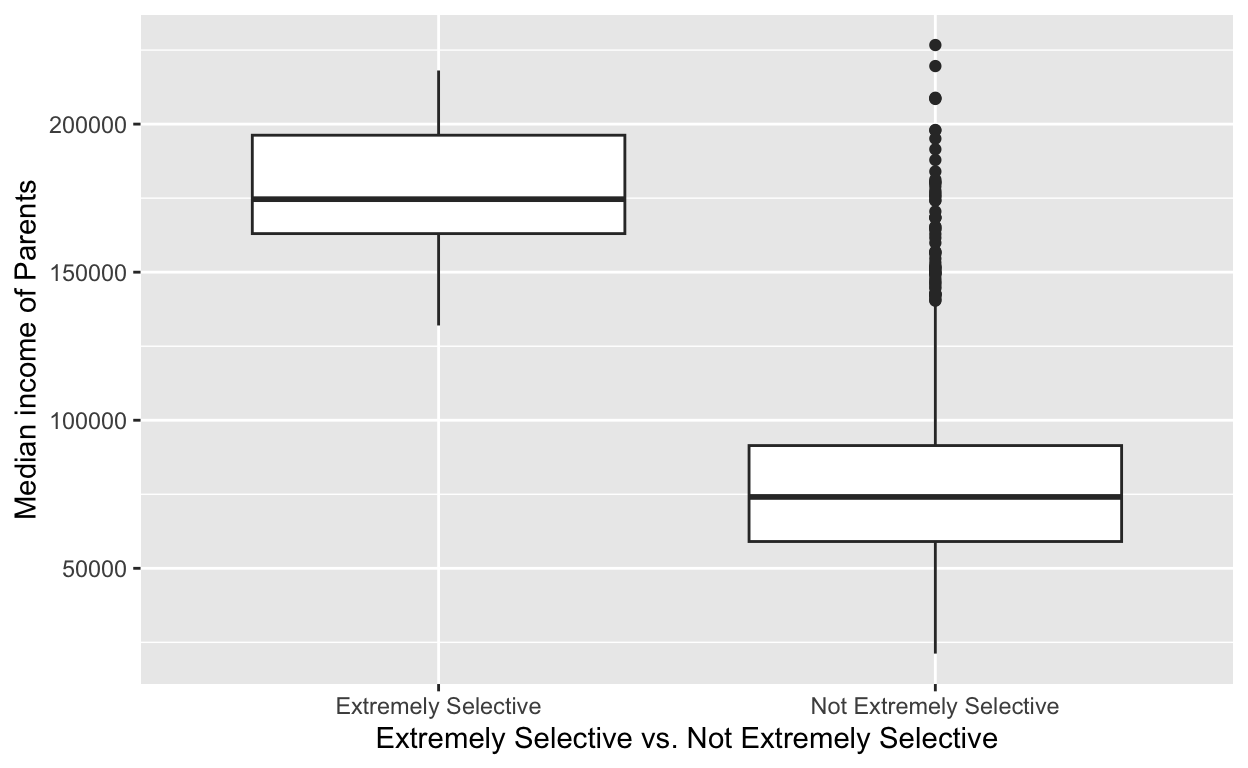
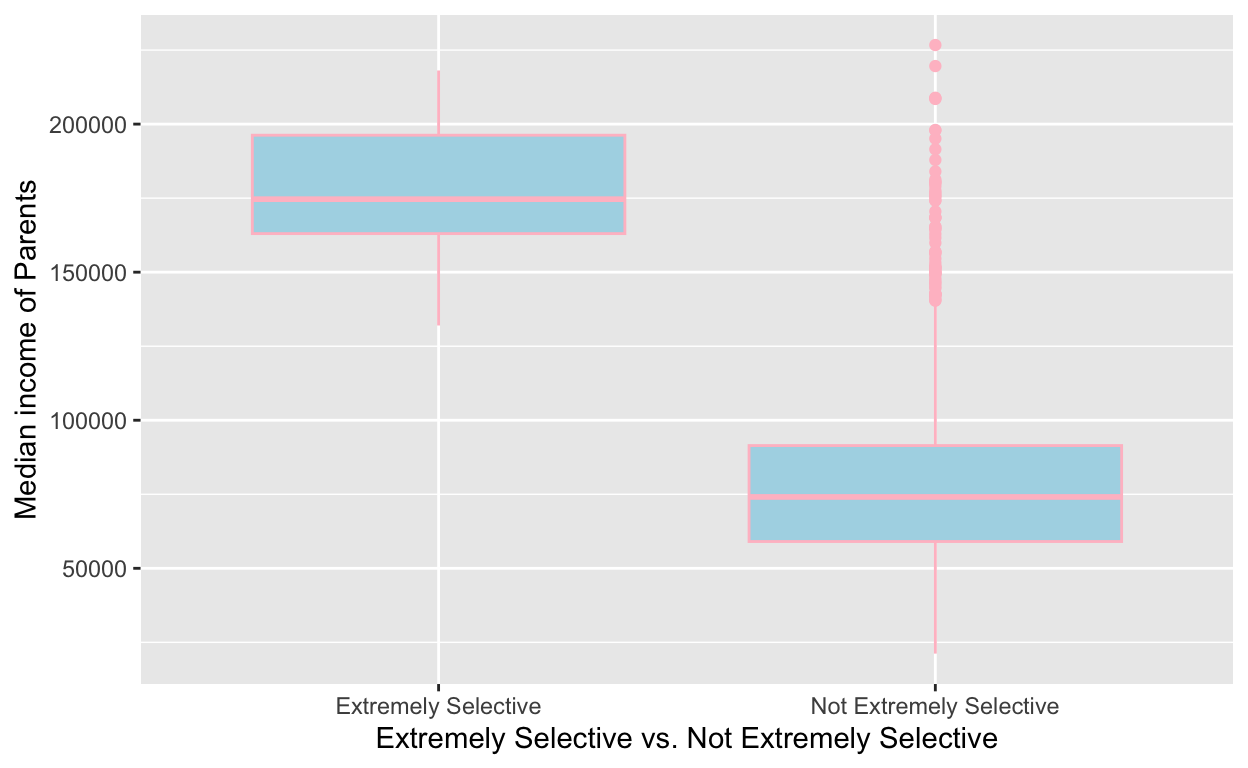
Let's seeee

Changed region(s): [[0.5938, 0.5625, 0.9062, 0.7188], [0.1875, 0.1562, 0.5, 0.3125], [0.7188, 0.1562, 0.7812, 0.4062]]

diff --git a/index.html b/index.html
@@ -115,7 +115,7 @@ code span.wa { color: #5e5e5e; font-style: italic; } /* Warning */
   <!--/radix_placeholder_rmarkdown_metadata-->
   
   <script type="text/json" id="radix-resource-manifest">
-  {"type":"character","attributes":{},"value":["index_files/anchor-4.2.2/anchor.min.js","index_files/bowser-1.9.3/bowser.min.js","index_files/distill-2.2.21/template.v2.js","index_files/figure-html5/unnamed-chunk-4-1.png","index_files/figure-html5/unnamed-chunk-5-1.png","index_files/header-attrs-2.17/header-attrs.js","index_files/header-attrs-2.24/header-attrs.js","index_files/jquery-3.6.0/jquery-3.6.0.js","index_files/jquery-3.6.0/jquery-3.6.0.min.js","index_files/jquery-3.6.0/jquery-3.6.0.min.map","index_files/popper-2.6.0/popper.min.js","index_files/tippy-6.2.7/tippy-bundle.umd.min.js","index_files/tippy-6.2.7/tippy-light-border.css","index_files/tippy-6.2.7/tippy.css","index_files/tippy-6.2.7/tippy.umd.min.js","index_files/webcomponents-2.0.0/webcomponents.js"]}
+  {"type":"character","attributes":{},"value":["index_files/anchor-4.2.2/anchor.min.js","index_files/bowser-1.9.3/bowser.min.js","index_files/distill-2.2.21/template.v2.js","index_files/figure-html5/unnamed-chunk-4-1.png","index_files/figure-html5/unnamed-chunk-5-1.png","index_files/header-attrs-2.17/header-attrs.js","index_files/header-attrs-2.24/header-attrs.js","index_files/header-attrs-2.25/header-attrs.js","index_files/jquery-3.6.0/jquery-3.6.0.js","index_files/jquery-3.6.0/jquery-3.6.0.min.js","index_files/jquery-3.6.0/jquery-3.6.0.min.map","index_files/popper-2.6.0/popper.min.js","index_files/tippy-6.2.7/tippy-bundle.umd.min.js","index_files/tippy-6.2.7/tippy-light-border.css","index_files/tippy-6.2.7/tippy.css","index_files/tippy-6.2.7/tippy.umd.min.js","index_files/webcomponents-2.0.0/webcomponents.js"]}
   </script>
   <!--radix_placeholder_navigation_in_header-->
   <!--/radix_placeholder_navigation_in_header-->
@@ -227,9 +227,21 @@ code span.wa { color: #5e5e5e; font-style: italic; } /* Warning */
     display: none !important;
   }
 
+  hr.section-separator {
+    border: none;
+    border-top: 1px solid rgba(0, 0, 0, 0.1);
+    margin: 0px;
+  }
+
+
+  d-byline {
+    border-top: none;
+  }
+
   d-article {
     padding-top: 2.5rem;
     padding-bottom: 30px;
+    border-top: none;
   }
 
   d-appendix {
@@ -324,6 +336,11 @@ code span.wa { color: #5e5e5e; font-style: italic; } /* Warning */
   d-article div.sourceCode pre {
     padding-left: 18px;
     font-size: 14px;
+  }
+
+  /* tweak for Pandoc numbered line within distill */
+  d-article pre.numberSource code > span {
+      left: -2em;
   }
 
   d-article pre {
@@ -1085,6 +1102,12 @@ code span.wa { color: #5e5e5e; font-style: italic; } /* Warning */
     // create d-title
     $('.d-title').changeElementType('d-title');
 
+    // separator
+    var separator = '<hr class="section-separator" style="clear: both"/>';
+    // prepend separator above appendix
+    $('.d-byline').before(separator);
+    $('.d-article').before(separator);
+
     // create d-byline
     var byline = $('<d-byline></d-byline>');
     $('.d-byline').replaceWith(byline);
@@ -1162,8 +1185,9 @@ code span.wa { color: #5e5e5e; font-style: italic; } /* Warning */
     $('.distill-force-highlighting-css').parent().remove();
 
     // remove empty line numbers inserted by pandoc when using a
-    // custom syntax highlighting theme
-    $('code.sourceCode a:empty').remove();
+    // custom syntax highlighting theme, except when numbering line
+    // in code chunk
+    $('pre:not(.numberLines) code.sourceCode a:empty').remove();
 
     // load distill framework
     load_distill_framework();
@@ -1189,12 +1213,13 @@ code span.wa { color: #5e5e5e; font-style: italic; } /* Warning */
       // add orcid ids
       $('.authors-affiliations').find('.author').each(function(i, el) {
         var orcid_id = front_matter.authors[i].orcidID;
+        var author_name = front_matter.authors[i].author
         if (orcid_id) {
           var a = $('<a></a>');
           a.attr('href', 'https://orcid.org/' + orcid_id);
           var img = $('<img></img>');
           img.addClass('orcid-id');
-          img.attr('alt', 'ORCID ID');
+          img.attr('alt', author_name ? 'ORCID ID for ' + author_name : 'ORCID ID');
[1 lines of base64/hex data omitted]
           a.append(img);
           $(this).append(a);
@@ -1472,7 +1497,7 @@ code span.wa { color: #5e5e5e; font-style: italic; } /* Warning */
   </script>
 
   <!--/radix_placeholder_distill-->
-  <script src="index_files/header-attrs-2.24/header-attrs.js"></script>
+  <script src="index_files/header-attrs-2.25/header-attrs.js"></script>
   <script src="index_files/jquery-3.6.0/jquery-3.6.0.min.js"></script>
   <script src="index_files/popper-2.6.0/popper.min.js"></script>
   <link href="index_files/tippy-6.2.7/tippy.css" rel="stylesheet" />
@@ -1504,6 +1529,7 @@ code span.wa { color: #5e5e5e; font-style: italic; } /* Warning */
 
 <div class="d-title">
 <h1>Gov 50 Final Project</h1>
+
 <!--radix_placeholder_categories-->
 <!--/radix_placeholder_categories-->
 <p>My final project</p>
@@ -1517,14 +1543,14 @@ code span.wa { color: #5e5e5e; font-style: italic; } /* Warning */
 </div>
 
 <div class="d-article">
-<h2 id="project-thoughts">Project thoughts</h2>
-<p>I am interested in exploring data related to the chances of upward mobility from students in elite higher education universities, including Harvard University. I seek to include data relating to students socioeconomic status prior to arriving a college, and this can also raise more questions regarding the idea of a “higher bracket” in moving up the economic ladder in these prestigious universities. Are these students pressured to do more than their parents who are already well off? Are students identifying as first generational low income at an equal chance of high upward mobility than those who came from a family of generational wealth? I strive to solve all of these raising questions through using R and the data presented in the program.</p>
-<p>Write-Up for Milestone 2</p>
+<h2 id="introduction">Introduction</h2>
+<p>Throughout my high school career, I have always been facinated at the idea of exploring data related to the chances of upward mobility from students in elite higher education universities, including Harvard University. In the case where I can study this type of information now being a Harvard student, I seek to include data relating to students socioeconomic status prior to arriving a college, and this can also raise more questions regarding the idea of a “higher bracket” in moving up the economic ladder in these prestigious universities. Are these students pressured to do more than their parents who are already well off? Are students identifying as first generational low income at an equal chance of high upward mobility than those who came from a family of generational wealth? I strive to solve all of these raising questions through using R and the data presented in the program.</p>
 <p>Do your chances of upward mobility increase as the rank and tier of college rises in prestige? In this study, I intend to dive deep into the realm that determines a students outcome for social mobility. What does determine your economic outcome? I hypothesize that as we look further into the spectrum in which colleges become “more elite,” we will find that their overall social mobility statistics will feature a distinct trend in which it stays stagnant due to many students already coming from wealthy backgrounds in the beginning. While the topic of social mobility between elite and lower tiered universities is widely perceived to be different, I will be taking a different approach in which I will examine whether a students chances within an elite college institution for upward mobility is higher than it would be in lower tiered universities. My sample will be comprised of elite colleges which will include the Ivy league colleges, Stanford University, and the Massachusetts Institute of Technology (MIT) and other colleges deemed “extremely selective” according to the code. On the flip side, it will include brief data on lower tiered state schools from around the country that are deemed to be “Not Selective” according to the code. My explanatory variable of interest is whether there is upward mobility in my chosen elite colleges or if there is little to no upward mobility. The variable is code = 1 for those experiencing upward mobility and =0 with those with little to no upward mobility. My outcome variable is how many students came out of elite universities with upward economic mobility, so in the event the code is =135, that would mean that 135 students came out of the universities with upward mobility. This variable will be measured by a data set from Raj Chetty on “Income Segregation and Intergenerational Mobility Across Colleges in the United States.” If I discover stagnant numbers in students with little to no upward mobility in elite universities, this will support my hypothesis’s claim. If, on the other hand, I observe more upward mobility in those elite groups, it will not support my claim in my hypothesis. When I run a diagnosis on the count of students who are experiencing upward mobility, a positive significant coeficient (number) would indicate support for my hypothesis.</p>
 <p>My chosen data set: <a href="https://doi.org/10.7910/DVN/RYLJKZ" class="uri">https://doi.org/10.7910/DVN/RYLJKZ</a></p>
 <div class="layout-chunk" data-layout="l-body">
 <div class="sourceCode">
 <pre class="sourceCode r"><code class="sourceCode r"><span><span class='kw'><a href='https://rdrr.io/r/base/library.html'>library</a></span><span class='op'>(</span><span class='va'><a href='https://tidyverse.tidyverse.org'>tidyverse</a></span><span class='op'>)</span></span>
+<span><span class='kw'><a href='https://rdrr.io/r/base/library.html'>library</a></span><span class='op'>(</span><span class='va'><a href='http://had.co.nz/plyr'>plyr</a></span><span class='op'>)</span></span>
 <span><span class='kw'><a href='https://rdrr.io/r/base/library.html'>library</a></span><span class='op'>(</span><span class='va'><a href='https://dplyr.tidyverse.org'>dplyr</a></span><span class='op'>)</span></span>
 <span><span class='va'>statistics</span> <span class='op'>&lt;-</span> <span class='fu'><a href='https://rdrr.io/r/utils/read.table.html'>read.csv</a></span><span class='op'>(</span><span class='st'>"~/Downloads/dataverse_files/mrc_table1.csv"</span>, header <span class='op'>=</span> <span class='cn'>FALSE</span><span class='op'>)</span> </span>
 <span>  <span class='fu'><a href='https://rdrr.io/r/base/colnames.html'>colnames</a></span><span class='op'>(</span><span class='va'>statistics</span><span class='op'>)</span> <span class='op'>&lt;-</span> <span class='fu'><a href='https://rdrr.io/r/base/c.html'>c</a></span><span class='op'>(</span><span class='st'>"var1"</span>, <span class='st'>"V2"</span>, <span class='st'>"var3"</span>, <span class='st'>"var4"</span>, <span class='st'>"parent_median"</span>, <span class='st'>"kid_median"</span>, <span class='st'>"var7"</span>, <span class='st'>"var8"</span>, <span class='st'>"var9"</span>, <span class='st'>"var10"</span>, <span class='st'>"var11"</span>, <span class='st'>"var12"</span>, <span class='st'>"var13"</span>, <span class='st'>"var14"</span>, <span class='st'>"var15"</span><span class='op'>)</span></span></code></pre>
@@ -1537,14 +1563,13 @@ code span.wa { color: #5e5e5e; font-style: italic; } /* Warning */
 </div>
 <div class="layout-chunk" data-layout="l-body">
 <div class="sourceCode">
-<pre class="sourceCode r"><code class="sourceCode r"><span><span class='kw'><a href='https://rdrr.io/r/base/library.html'>library</a></span><span class='op'>(</span><span class='va'><a href='http://had.co.nz/plyr'>plyr</a></span><span class='op'>)</span></span>
-<span></span>
-<span><span class='va'>df</span> <span class='op'>&lt;-</span> <span class='fu'><a href='https://dplyr.tidyverse.org/reference/mutate-joins.html'>inner_join</a></span><span class='op'>(</span><span class='va'>college_rank</span>, <span class='va'>statistics</span>, by <span class='op'>=</span> <span class='st'>"V2"</span><span class='op'>)</span> </span></code></pre>
+<pre class="sourceCode r"><code class="sourceCode r"><span><span class='va'>df</span> <span class='op'>&lt;-</span> <span class='fu'><a href='https://dplyr.tidyverse.org/reference/mutate-joins.html'>inner_join</a></span><span class='op'>(</span><span class='va'>college_rank</span>, <span class='va'>statistics</span>, by <span class='op'>=</span> <span class='st'>"V2"</span><span class='op'>)</span> </span></code></pre>
 </div>
 </div>
 <div class="layout-chunk" data-layout="l-body">
 <div class="sourceCode">
-<pre class="sourceCode r"><code class="sourceCode r"><span><span class='va'>df</span><span class='op'>$</span><span class='va'>parent_median</span> <span class='op'>&lt;-</span> <span class='fu'><a href='https://rdrr.io/r/base/numeric.html'>as.numeric</a></span><span class='op'>(</span><span class='va'>df</span><span class='op'>$</span><span class='va'>parent_median</span><span class='op'>)</span></span>
+<pre class="sourceCode r"><code class="sourceCode r"><span><span class='kw'><a href='https://rdrr.io/r/base/library.html'>library</a></span><span class='op'>(</span><span class='va'><a href='https://ggplot2.tidyverse.org'>ggplot2</a></span><span class='op'>)</span></span>
+<span><span class='va'>df</span><span class='op'>$</span><span class='va'>parent_median</span> <span class='op'>&lt;-</span> <span class='fu'><a href='https://rdrr.io/r/base/numeric.html'>as.numeric</a></span><span class='op'>(</span><span class='va'>df</span><span class='op'>$</span><span class='va'>parent_median</span><span class='op'>)</span></span>
 <span></span>
 <span><span class='va'>df</span> <span class='op'>&lt;-</span> <span class='va'>df</span><span class='op'>|&gt;</span></span>
 <span>  <span class='fu'><a href='https://rdrr.io/pkg/plyr/man/mutate.html'>mutate</a></span><span class='op'>(</span>elite_college <span class='op'>=</span> <span class='fu'><a href='https://dplyr.tidyverse.org/reference/if_else.html'>if_else</a></span><span class='op'>(</span><span class='va'>V12</span> <span class='op'>==</span> <span class='st'>"Ivy Plus"</span>, <span class='st'>"Extremely Selective"</span>, <span class='st'>"Not Extremely Selective"</span><span class='op'>)</span>,</span>
@@ -1552,7 +1577,7 @@ code span.wa { color: #5e5e5e; font-style: italic; } /* Warning */
 <span></span>
 <span><span class='va'>first_graph</span> <span class='op'>&lt;-</span> <span class='fu'><a href='https://ggplot2.tidyverse.org/reference/ggplot.html'>ggplot</a></span><span class='op'>(</span>data <span class='op'>=</span> <span class='va'>df</span>, mapping <span class='op'>=</span> <span class='fu'><a href='https://ggplot2.tidyverse.org/reference/aes.html'>aes</a></span><span class='op'>(</span>x <span class='op'>=</span> <span class='va'>elite_college</span>,</span>
 <span>                                  y <span class='op'>=</span> <span class='va'>parent_median</span><span class='op'>)</span><span class='op'>)</span> <span class='op'>+</span></span>
-<span>   <span class='fu'><a href='https://ggplot2.tidyverse.org/reference/geom_boxplot.html'>geom_boxplot</a></span><span class='op'>(</span><span class='op'>)</span> <span class='op'>+</span></span>
+<span>   <span class='fu'><a href='https://ggplot2.tidyverse.org/reference/geom_boxplot.html'>geom_boxplot</a></span><span class='op'>(</span>color<span class='op'>=</span><span class='st'>"pink"</span>, fill<span class='op'>=</span><span class='st'>"lightblue"</span><span class='op'>)</span> <span class='op'>+</span></span>
 <span>  <span class='fu'><a href='https://ggplot2.tidyverse.org/reference/labs.html'>labs</a></span><span class='op'>(</span>x <span class='op'>=</span> <span class='st'>"Extremely Selective vs. Not Extremely Selective"</span>,</span>
 <span>       y <span class='op'>=</span> <span class='st'>"Median income of Parents"</span><span class='op'>)</span></span>
 <span> <span class='va'>first_graph</span></span></code></pre>
@@ -1568,7 +1593,7 @@ code span.wa { color: #5e5e5e; font-style: italic; } /* Warning */
 <span></span>
 <span><span class='va'>second_graph</span> <span class='op'>&lt;-</span> <span class='fu'><a href='https://ggplot2.tidyverse.org/reference/ggplot.html'>ggplot</a></span><span class='op'>(</span>data <span class='op'>=</span> <span class='va'>df</span>, mapping <span class='op'>=</span> <span class='fu'><a href='https://ggplot2.tidyverse.org/reference/aes.html'>aes</a></span><span class='op'>(</span>x <span class='op'>=</span> <span class='va'>elite_college</span>,</span>
 <span>                                  y <span class='op'>=</span> <span class='va'>kid_median</span><span class='op'>)</span><span class='op'>)</span> <span class='op'>+</span></span>
-<span>   <span class='fu'><a href='https://ggplot2.tidyverse.org/reference/geom_boxplot.html'>geom_boxplot</a></span><span class='op'>(</span><span class='op'>)</span> <span class='op'>+</span></span>
+<span>   <span class='fu'><a href='https://ggplot2.tidyverse.org/reference/geom_boxplot.html'>geom_boxplot</a></span><span class='op'>(</span>color<span class='op'>=</span><span class='st'>"pink"</span>, fill<span class='op'>=</span><span class='st'>"lightblue"</span><span class='op'>)</span> <span class='op'>+</span></span>
 <span>  <span class='fu'><a href='https://ggplot2.tidyverse.org/reference/labs.html'>labs</a></span><span class='op'>(</span>x <span class='op'>=</span> <span class='st'>"Extremely Selective vs. Not Extremely Selective"</span>,</span>
 <span>       y <span class='op'>=</span> <span class='st'>"Median Salary of Kids After College"</span><span class='op'>)</span></span>
 <span><span class='va'>second_graph</span></span></code></pre>

diff --git a/index_files/header-attrs-2.25/header-attrs.js b/index_files/header-attrs-2.25/header-attrs.js
@@ -1,0 +1,12 @@
+// Pandoc 2.9 adds attributes on both header and div. We remove the former (to
+// be compatible with the behavior of Pandoc < 2.8).
+document.addEventListener('DOMContentLoaded', function(e) {
+  var hs = document.querySelectorAll("div.section[class*='level'] > :first-child");
+  var i, h, a;
+  for (i = 0; i < hs.length; i++) {
+    h = hs[i];
+    if (!/^h[1-6]$/i.test(h.tagName)) continue;  // it should be a header h1-h6
+    a = h.attributes;
+    while (a.length > 0) h.removeAttribute(a[0].name);
+  }
+});
